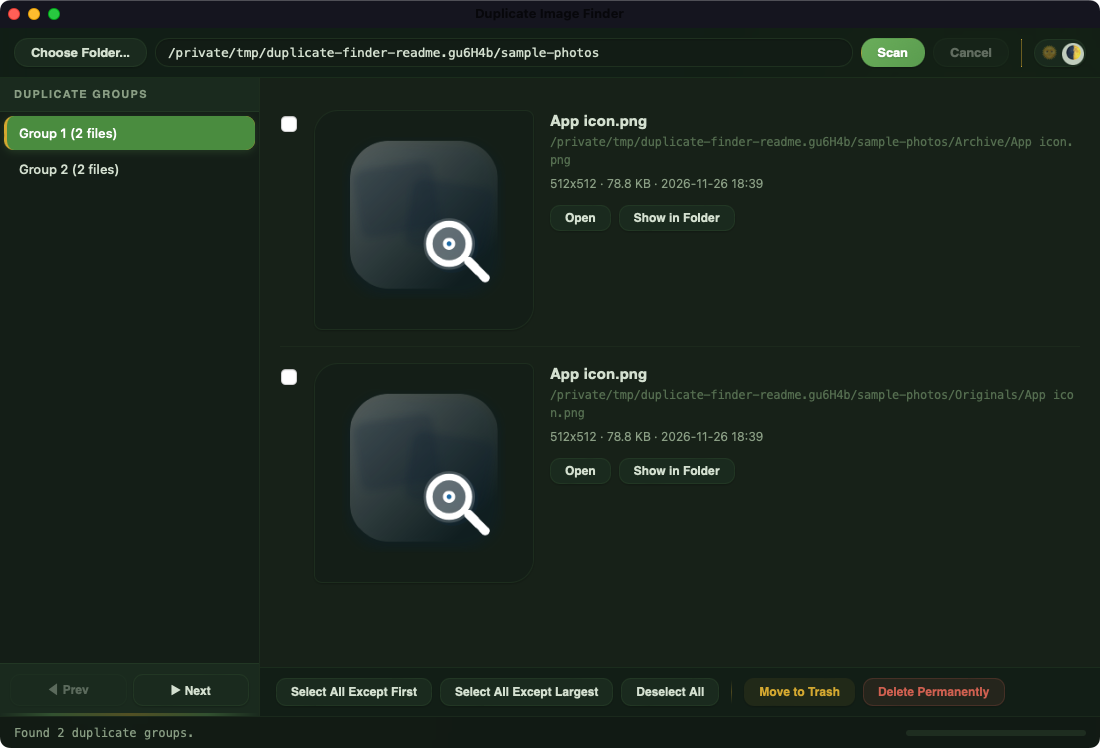
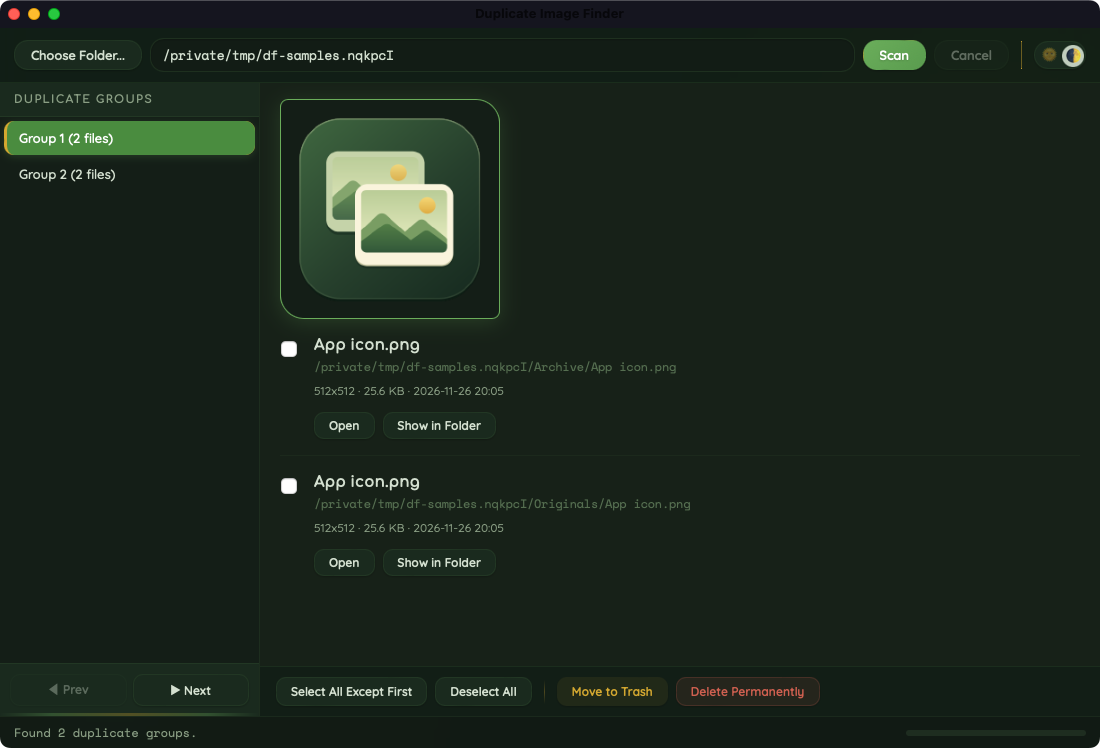
docs: refresh screenshots and add support links

diff --git a/README.md b/README.md
@@ -12,9 +12,7 @@ A Tauri v2 desktop app for finding and managing exact duplicate image files. It 
 
 ### Duplicate groups
 
-![Scan results with a selected duplicate group and two matching image previews](docs/screenshots/main-view.png)
-
-_This screenshot shows the earlier per-file preview layout._
+![Scan results with one shared preview and two matching files in the selected group](docs/screenshots/main-view.png)
 
 ## Features
 
@@ -118,6 +116,10 @@ duplicateFinder/
 ├── package-lock.json
 └── package.json
 ```
+
+## Support
+
+Support development on [Patreon](https://patreon.com/rupertgermann) or [Buy Me a Coffee](https://buymeacoffee.com/rupertgermann).
 
 ## License
 
